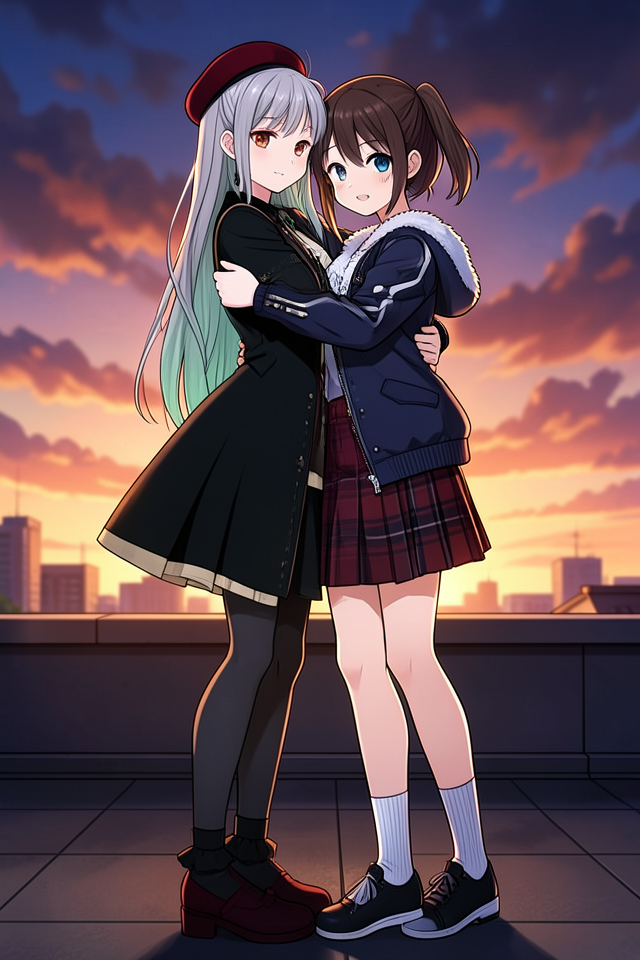
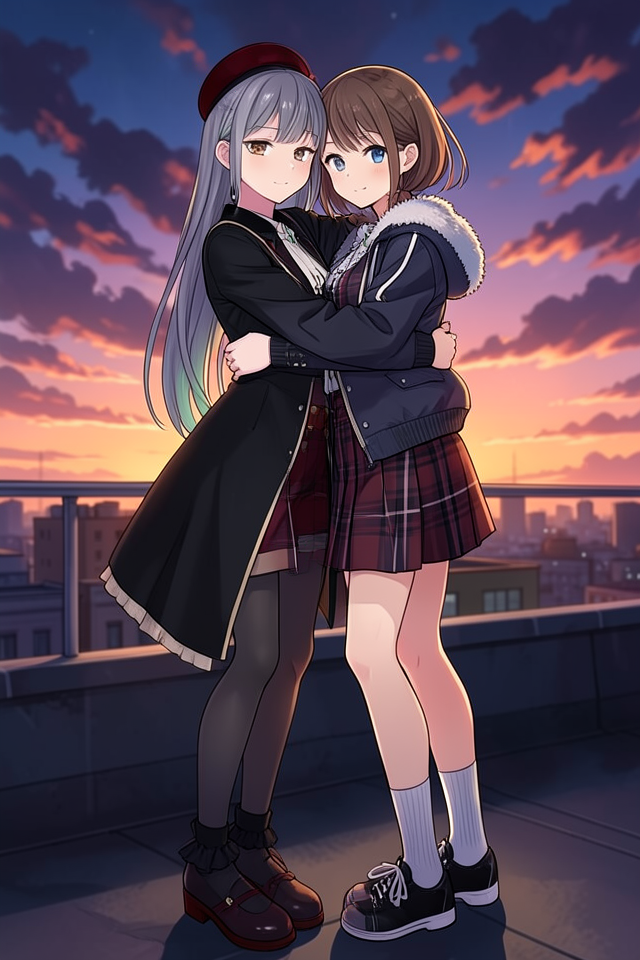
Improve character appearance by making shorts visible under tailcoat
Update Mortis's appearance string in multiple test files to ensure the tailcoat is described as open, revealing the crimson red shorts. Also, update metadata titles for image outputs.

Replit-Commit-Author: Agent
Replit-Commit-Session-Id: 93f1d019-95a0-4049-84e3-6b3b1efc4c86
Replit-Commit-Checkpoint-Type: full_checkpoint
Replit-Commit-Event-Id: 8f2e46de-86e4-4a01-98eb-11e983ae994c
Replit-Helium-Checkpoint-Created: true

diff --git a/test_2pass_hug.py b/test_2pass_hug.py
@@ -32,8 +32,9 @@ NINA_PATH   = "attached_assets/圖片_1774831943302.png"
 MORTIS_APPEARANCE = (
     "1girl, Mortis, long pale silver-grey hair with subtle mint-green tint, "
     "deep burgundy red flat beret, warm amber-grey eyes, pale skin, "
-    "black open-front tailcoat with flared hi-lo skirt hem, gold-beige trim and stud details along edges, "
-    "crimson red high-waisted button-front shorts (solid plain, no plaid, no pattern), "
+    "black tailcoat open at the front revealing the waist, coat splits open at center, "
+    "gold-beige trim and stud details along coat edges, flared coat tails behind, "
+    "crimson red high-waisted shorts clearly visible at center (solid plain, no plaid, no pattern, gold buttons), "
     "white lace jabot at collar, green gem cross brooch, black wrist cuffs, "
     "dark gray opaque tights covering legs fully (no bare legs), "
     "dark red platform mary jane shoes, gothic lolita aristocrat aesthetic"

diff --git a/test_mortis_nina.py b/test_mortis_nina.py
@@ -21,8 +21,9 @@ NINA_PATH   = "attached_assets/圖片_1774831943302.png"
 MORTIS_APPEARANCE = (
     "1girl, Mortis, long pale silver-grey hair with subtle mint-green tint, "
     "deep burgundy red flat beret, warm amber-grey eyes, pale skin, "
-    "black open-front tailcoat with flared hi-lo skirt hem, gold-beige trim and stud details along edges, "
-    "crimson red high-waisted button-front shorts (solid plain, no plaid, no pattern), "
+    "black tailcoat open at the front revealing the waist, coat splits open at center, "
+    "gold-beige trim and stud details along coat edges, flared coat tails behind, "
+    "crimson red high-waisted shorts clearly visible at center (solid plain, no plaid, no pattern, gold buttons), "
     "white lace jabot at collar, green gem cross brooch, black wrist cuffs, "
     "dark gray opaque tights covering legs fully (no bare legs), "
     "dark red platform mary jane shoes, gothic lolita aristocrat aesthetic"

diff --git a/test_inpaint_hugging.py b/test_inpaint_hugging.py
@@ -24,8 +24,9 @@ NINA_REF   = "attached_assets/圖片_1774831943302.png"
 MORTIS_APPEARANCE = (
     "1girl, Mortis, long pale silver-grey hair with subtle mint-green tint, "
     "deep burgundy red flat beret, warm amber-grey eyes, pale skin, "
-    "black open-front tailcoat with flared hi-lo skirt hem, gold-beige trim and stud details along edges, "
-    "crimson red high-waisted button-front shorts (solid plain, no plaid, no pattern), "
+    "black tailcoat open at the front revealing the waist, coat splits open at center, "
+    "gold-beige trim and stud details along coat edges, flared coat tails behind, "
+    "crimson red high-waisted shorts clearly visible at center (solid plain, no plaid, no pattern, gold buttons), "
     "white lace jabot at collar, green gem cross brooch, black wrist cuffs, "
     "dark gray opaque tights covering legs fully (no bare legs), "
     "dark red platform mary jane shoes, gothic lolita aristocrat aesthetic"
